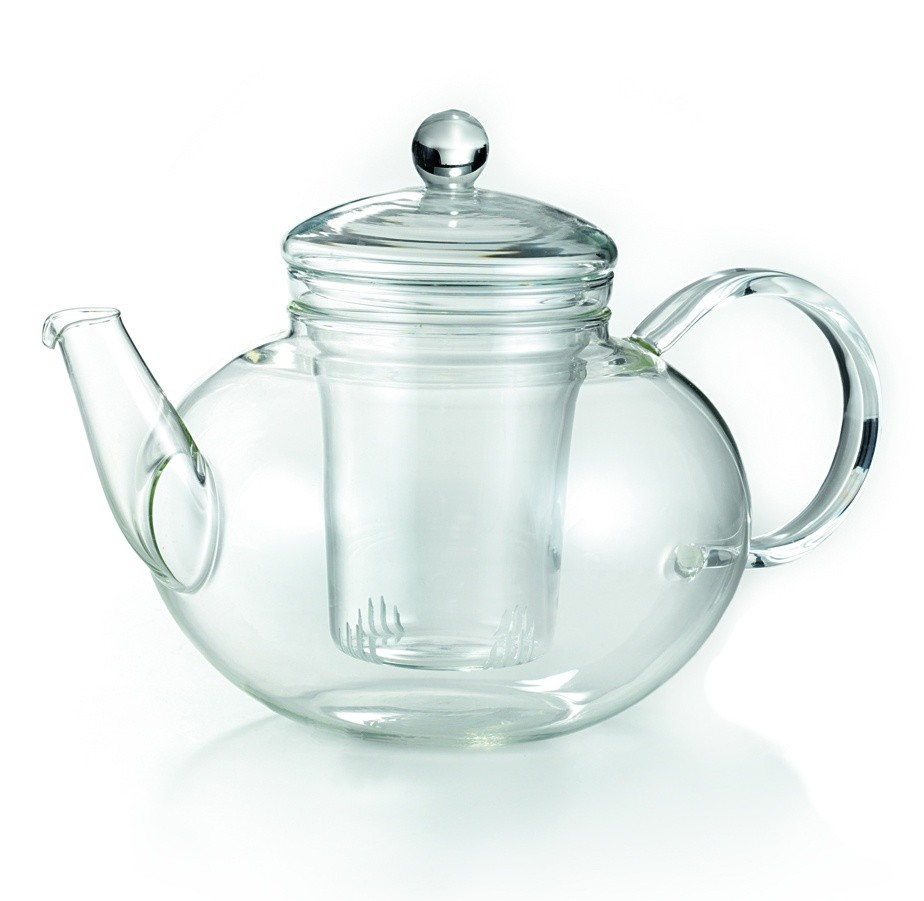
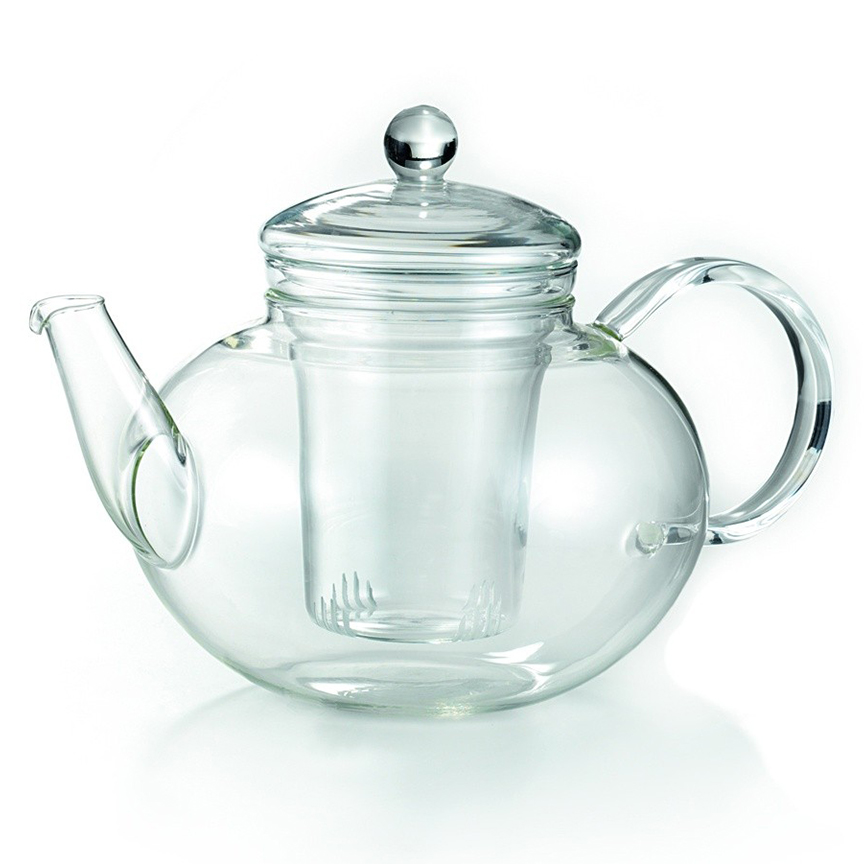
imgsizes

diff --git a/otherProjects/FinalProject/css/style.css b/otherProjects/FinalProject/css/style.css
@@ -54,7 +54,7 @@ body {
     margin: 20px;
 }
 .potImage {
-    width: 100%;
+    max-width: 100%;
 }
 .potName {
     text-align: center;
